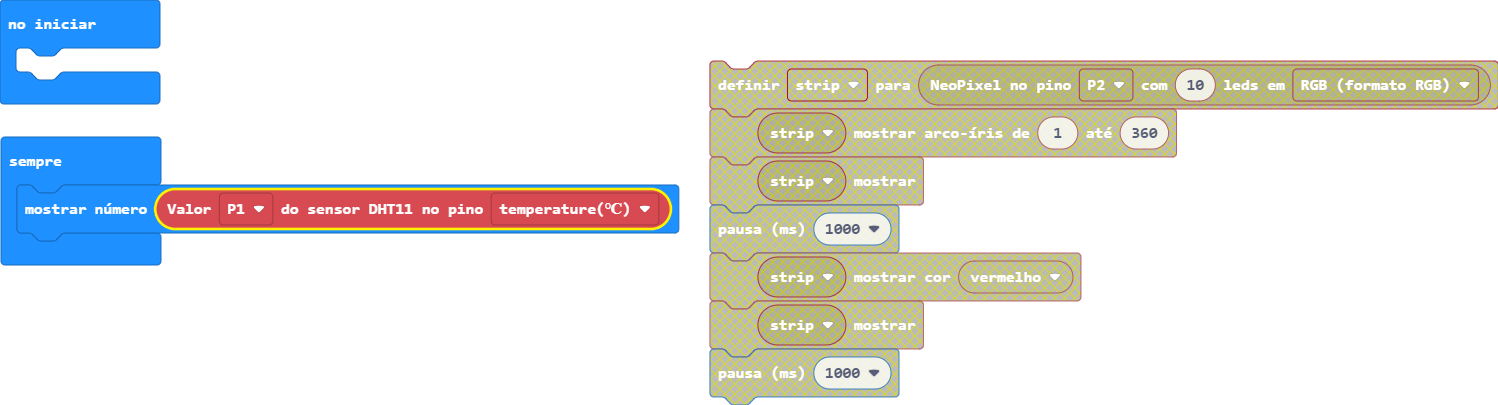
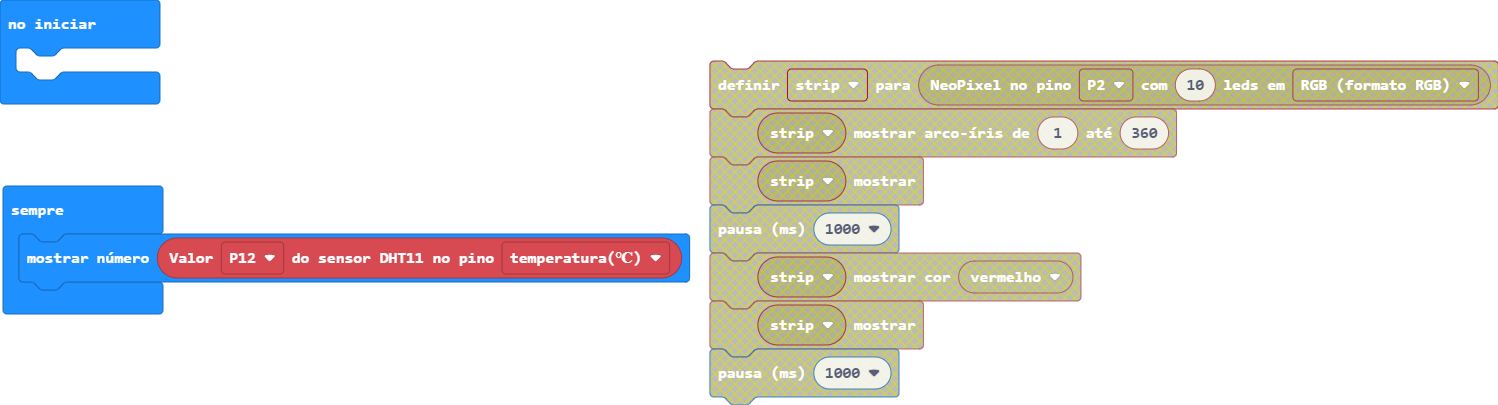
Update main.blocks, main.ts, hackbit.ts

Changed region(s): [[0.0, 0.3259, 0.4606, 0.8]]

diff --git a/hackbit.ts b/hackbit.ts
@@ -550,7 +550,7 @@ namespace hackbit {
 
     /**
     * Get dht11 temperature and humidity Value
-    * @param dht11pin describe parameter here, eg: DigitalPin.P15     
+    * @param dht11pin describe parameter here, eg: DigitalPin.P12     
     */
     //% blockId="hackbitDHT11Read" block="DHT11 sensor %dht11pin %dht11type value"
     //% dht11pin.fieldEditor="gridpicker"
@@ -565,37 +565,68 @@ namespace hackbit {
         basic.pause(18)
         let i = pins.digitalReadPin(dht11pin)
         pins.setPull(dht11pin, PinPullMode.PullUp);
-
-        while (pins.digitalReadPin(dht11pin) == 1);
-        while (pins.digitalReadPin(dht11pin) == 0);
-        while (pins.digitalReadPin(dht11pin) == 1);
-
-        let value = 0;
-        let counter = 0;
-
-        for (let i = 0; i <= 32 - 1; i++) {
-            while (pins.digitalReadPin(dht11pin) == 0);
-            counter = 0
-            while (pins.digitalReadPin(dht11pin) == 1) {
-                counter += 1;
-            }
-            if (counter > 4) {
-                value = value + (1 << (31 - i));
-            }
-        }
-
         switch (dht11type) {
             case 0:
-                return (value & 0x0000ff00) >> 8
+                let dhtvalue1 = 0;
+                let dhtcounter1 = 0;
+                while (pins.digitalReadPin(dht11pin) == 1);
+                while (pins.digitalReadPin(dht11pin) == 0);
+                while (pins.digitalReadPin(dht11pin) == 1);
+                for (let i = 0; i <= 32 - 1; i++) {
+                    while (pins.digitalReadPin(dht11pin) == 0);
+                    dhtcounter1 = 0
+                    while (pins.digitalReadPin(dht11pin) == 1) {
+                        dhtcounter1 += 1;
+                    }
+                    if (i > 15) {
+                        if (dhtcounter1 > 2) {
+                            dhtvalue1 = dhtvalue1 + (1 << (31 - i));
+                        }
+                    }
+                }
+                return ((dhtvalue1 & 0x0000ff00) >> 8);
                 break;
             case 1:
-                return ((value & 0x0000ff00) >> 8) * 9 / 5 + 32
+                while (pins.digitalReadPin(dht11pin) == 1);
+                while (pins.digitalReadPin(dht11pin) == 0);
+                while (pins.digitalReadPin(dht11pin) == 1);
+                let dhtvalue = 0;
+                let dhtcounter = 0;
+                for (let i = 0; i <= 32 - 1; i++) {
+                    while (pins.digitalReadPin(dht11pin) == 0);
+                    dhtcounter = 0
+                    while (pins.digitalReadPin(dht11pin) == 1) {
+                        dhtcounter += 1;
+                    }
+                    if (i > 15) {
+                        if (dhtcounter > 2) {
+                            dhtvalue = dhtvalue + (1 << (31 - i));
+                        }
+                    }
+                }
+                return Math.round((((dhtvalue & 0x0000ff00) >> 8) * 9 / 5) + 32);
                 break;
             case 2:
-                return value >> 24
-                break;
+                while (pins.digitalReadPin(dht11pin) == 1);
+                while (pins.digitalReadPin(dht11pin) == 0);
+                while (pins.digitalReadPin(dht11pin) == 1);
+
+                let value = 0;
+                let counter = 0;
+
+                for (let i = 0; i <= 8 - 1; i++) {
+                    while (pins.digitalReadPin(dht11pin) == 0);
+                    counter = 0
+                    while (pins.digitalReadPin(dht11pin) == 1) {
+                        counter += 1;
+                    }
+                    if (counter > 3) {
+                        value = value + (1 << (7 - i));
+                    }
+                }
+                return value;
             default:
-                return 0
+                return 0;
         }
     }
 

diff --git a/main.ts b/main.ts
@@ -1,3 +1,3 @@
 basic.forever(function () {
-    basic.showNumber(hackbit.dht11Sensor(DigitalPin.P1, hackbit.DHT11Type.DHT11_temperature_C))
+    basic.showNumber(hackbit.dht11Sensor(DigitalPin.P12, hackbit.DHT11Type.DHT11_temperature_C))
 })
